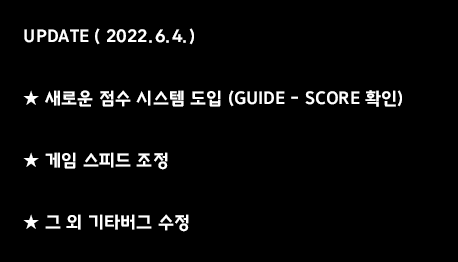
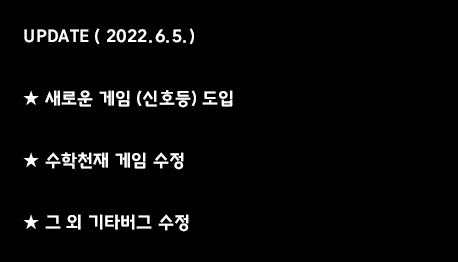
hard monster

Changed region(s): [[0.214, 0.3359, 0.8865, 0.4275], [0.0917, 0.5802, 0.4279, 0.6412], [0.3668, 0.0916, 0.3974, 0.1832]]

diff --git a/js/solo.js b/js/solo.js
@@ -462,14 +462,31 @@ function PMPD(){
     let ranNum = Math.floor(Math.random()*10)
     let ranNum2 = Math.floor(Math.random()*10)
     let ranNum3 =Math.floor(Math.random()*6)+1
-
+    let ranNum4 = Math.floor(Math.random()*3)+1
     if(ranNum3 == 4) {
-        let rst =ranNum+ranNum2
-        text_box = text_box.replace('{}',ranNum + ' + '+ranNum2 +' = '+rst)
+        if(soloscore>=110){
+            if(ranNum4 == 2){
+                let rst =ranNum-ranNum2
+                text_box = text_box.replace('{}',ranNum + ' - '+ranNum2 +' = '+rst)
+            }
+            else{
+                let rst =ranNum+ranNum2
+                text_box = text_box.replace('{}',ranNum + ' + '+ranNum2 +' = '+rst)
+            }
+        }
     }
     else{
-        let rst =ranNum+ranNum2+ranNum3
-        text_box = text_box.replace('{}',ranNum + ' + '+ranNum2 +' = '+rst)
+        if(soloscore>=110){
+            if(ranNum4 == 2){
+                let rst =ranNum-ranNum2+ranNum3
+                text_box = text_box.replace('{}',ranNum + ' - '+ranNum2 +' = '+rst)
+            }
+            else{
+                let rst =ranNum+ranNum2+ranNum3
+                text_box = text_box.replace('{}',ranNum + ' + '+ranNum2 +' = '+rst)
+            }
+        }
+        
     }
        
     $(".game_text").html(text_box)

diff --git a/index.html b/index.html
@@ -96,7 +96,7 @@
             <br>
             <button type="button" style="width: 200px;font-family: 'Kanit', sans-serif;" class="btn btn-outline-warning htd-btn" onclick="HowTo()">GUIDE</button>
             <br>
-            <button type="button" style="width: 200px;font-family: 'Kanit', sans-serif;" class="btn btn-outline-warning udt-btn" onclick="Udt()">UPDATE ( 6/4 )</button>
+            <button type="button" style="width: 200px;font-family: 'Kanit', sans-serif;" class="btn btn-outline-warning udt-btn" onclick="Udt()">UPDATE ( 6/5 )</button>
           </div>
       </div>
       <hr>
